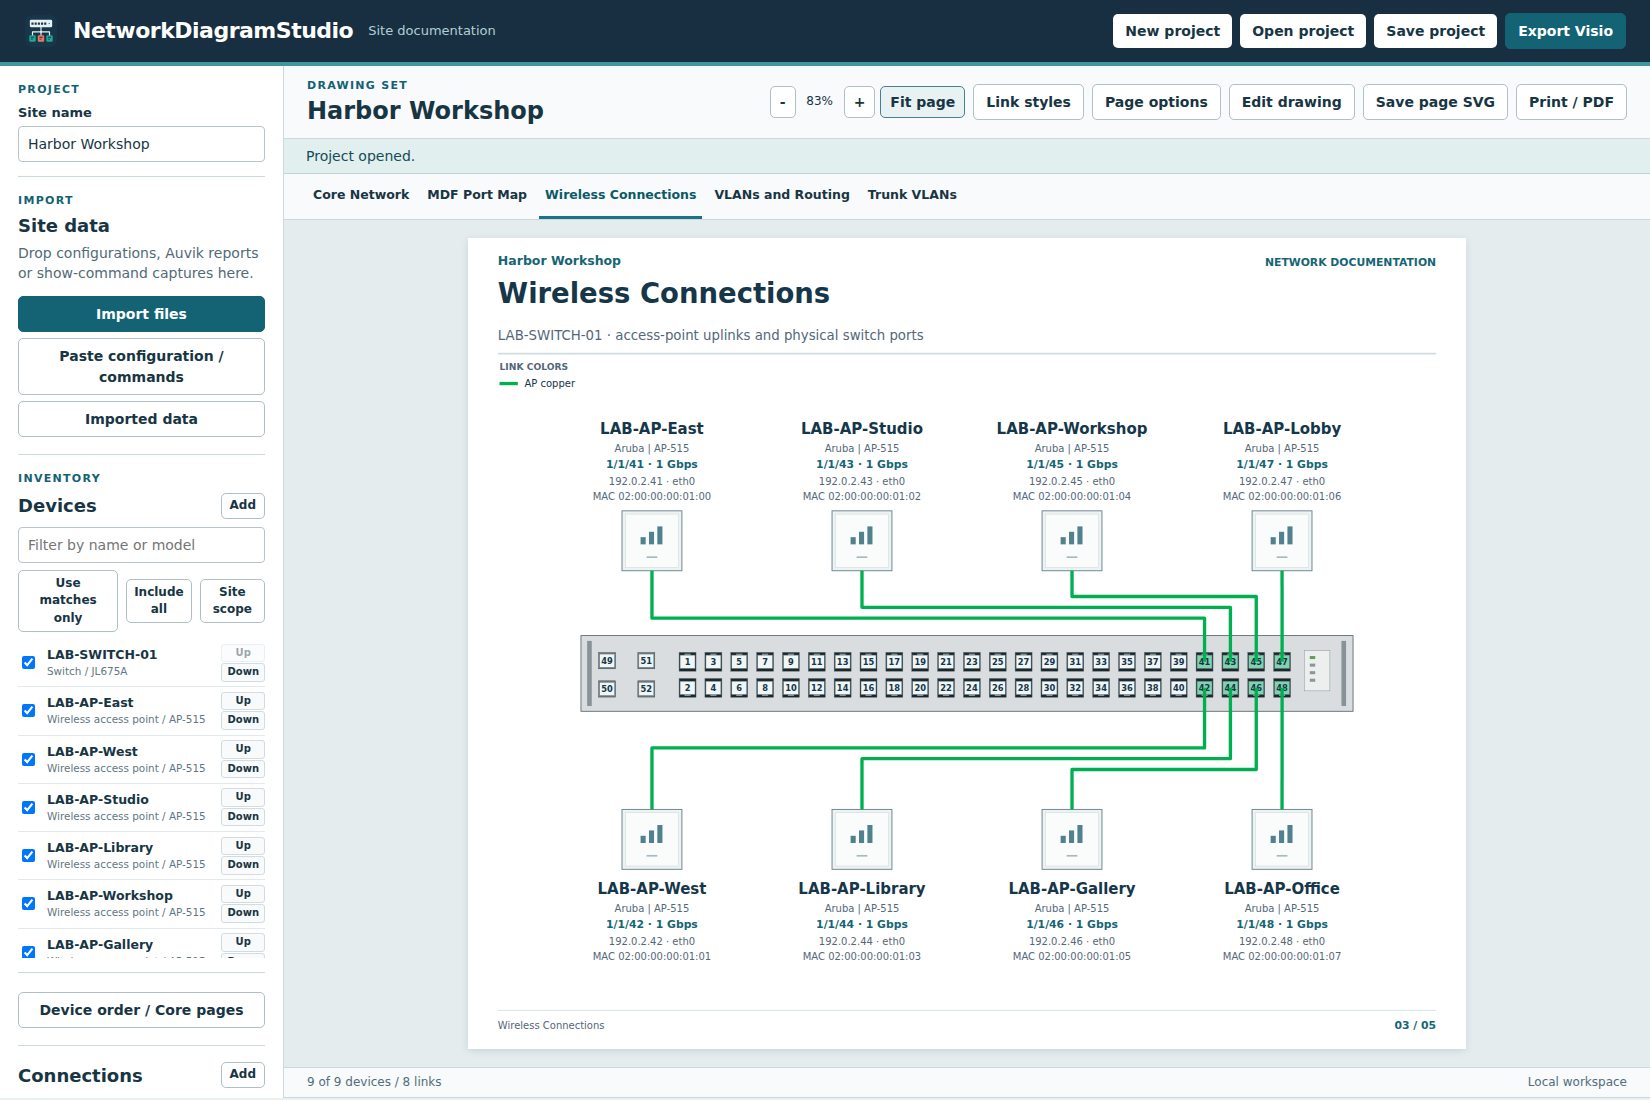
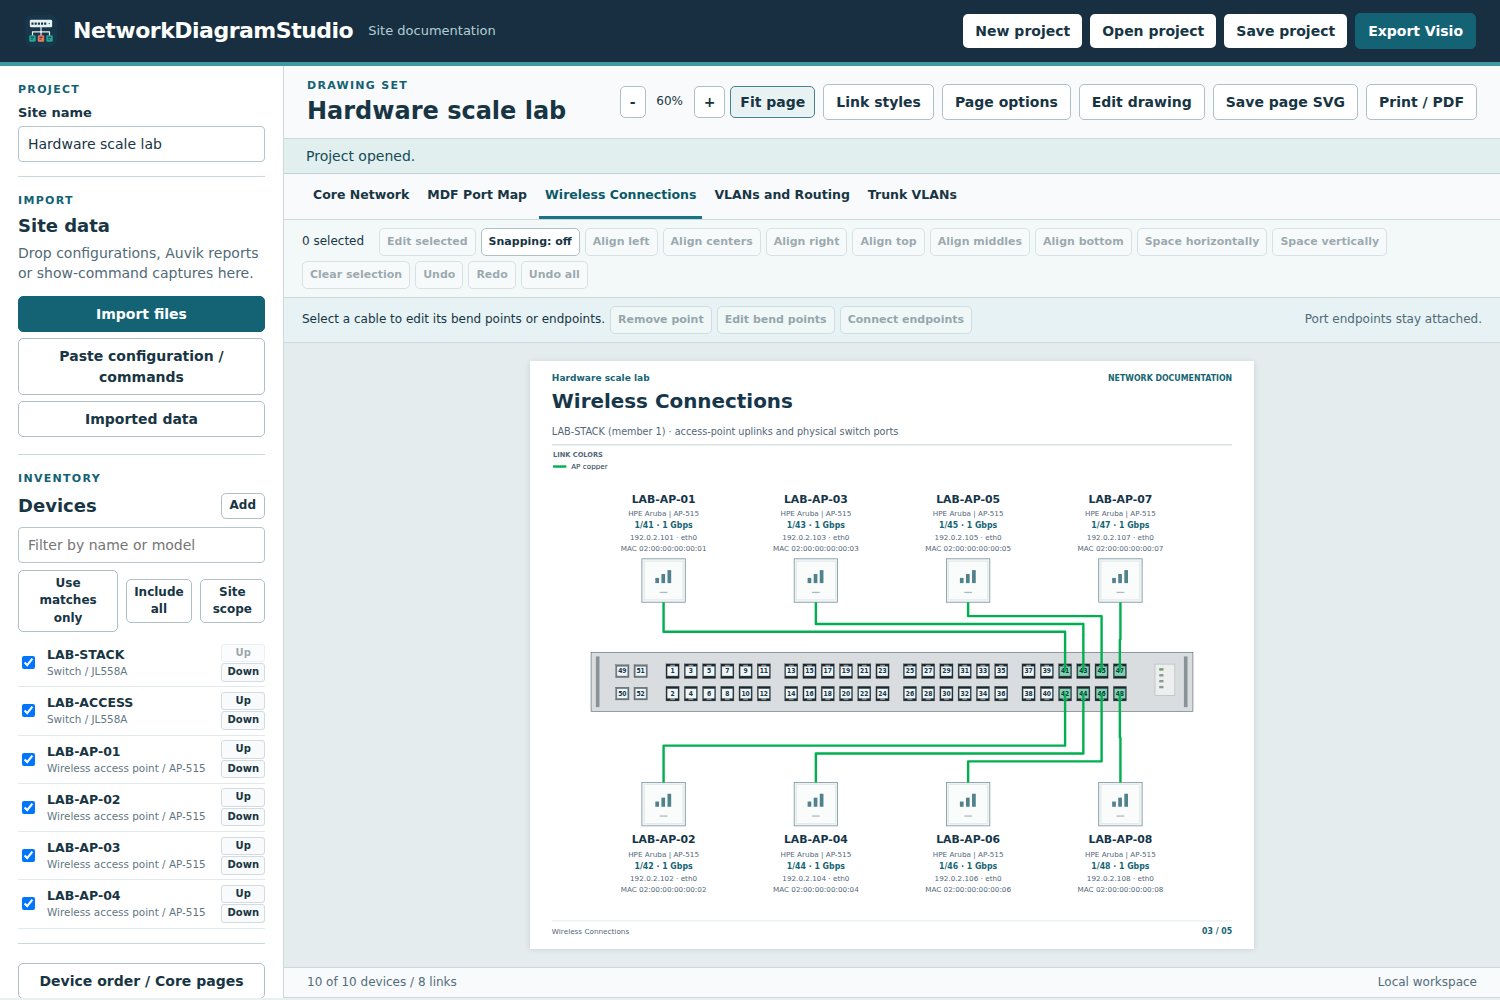
Preserve common hardware scale and paginate measured port maps (preview.21)

diff --git a/README.md b/README.md
@@ -19,7 +19,7 @@ Network engineers can use the Windows application or the offline browser edition
 - Zoom, pan and Fit page. In Edit drawing, box-select or Shift/Ctrl-click items, move them with the mouse or arrow keys, align edges or centers, and distribute spacing. Configure grid snapping and alignment guides. Double-click text to type directly on the diagram; double-click other elements for properties. Ctrl+Z, Ctrl+Shift+Z and Undo all apply to project changes. Alt-drag selects native panel details.
 - Select cable type and link speed in line properties, the connection editor or a legend swatch. Legend choices update associated connection records across the drawing. Choose Copper, generic/MMF/SMF fiber, SR/LR/ER/ZR, DAC variants, AOC/AEC, coaxial or serial; use speed presets or enter custom values. Captions and active legends follow the selected type.
 - Edit cable bends directly, reconnect either end to a selected device/port, and customize line color/opacity or text color with a visual selector, HEX field and standard swatches. Link styles shares colors and titles/descriptions between cables and their legend entries. Legends include only the styles used on each sheet. Automatic cables and their color keys use a consistent standard thickness; exported Visio line widths are explicit and editable.
-- Zoom into port mapping, box-select sockets, move a group with the mouse or arrow keys, and align or distribute the selection. Port maps use consistent port-number boxes and a shared assignment matrix with one port column per switch. Expanded tables, individual rows and optional empty-record filtering remain available.
+- Zoom into port mapping, box-select sockets, move a group with the mouse or arrow keys, and align or distribute the selection. Port maps keep a shared hardware scale, consistent port-number boxes and an assignment matrix with one port column per switch. Measured hardware and details share a sheet when they fit; larger stacks continue by member range. Expanded tables, individual rows and optional empty-record filtering remain available.
 - Show manufacturer/model and available MAC addresses on wireless AP captions and other device diagrams. Edit device and interface addresses through readable form fields; captions wrap in full and remain editable.
 - Save and reopen projects, export editable Visio drawings, save the current page as SVG, or print the drawing set to PDF.
 - Keep complete diagram captions with measured wrapping in both SVG and Visio. Port modules use editable gray optic faces with dark sockets and dark DAC ends with a horizontal insert, matching the Configuration Inspector style. Framed module keys expand or continue onto a module sheet; duplicate wording such as Port port1 is avoided.
@@ -27,25 +27,21 @@ Network engineers can use the Windows application or the offline browser edition
 
 ## Screenshots
 
+**Paper sizes and orientation**
+
 ![Paper size and orientation controls](docs/images/page-options.png)
+
+**Update review and release notes**
 
 ![Update review panel with fictional release data](docs/images/update-panel.png)
 
-**Switch port map**
+**Stack and switch port maps at a common scale**
 
-<p align="center"><img src="docs/images/port-map.png" width="900" alt="Port map for the fictional sample switch"></p>
+<p align="center"><img src="docs/images/port-map.png" width="900" alt="Fictional two-member stack and standalone switch with equal faceplate widths and a shared assignment table"></p>
 
 **Wireless model and MAC details**
 
 <p align="center"><img src="docs/images/wireless-models.png" width="900" alt="Eight fictional access points with model, MAC, interface and link details on one sheet"></p>
-
-**Editable ports and device page placement**
-
-<p align="center"><img src="docs/images/device-ports.png" width="900" alt="Human-readable port fields and core-page placement for a fictional device"></p>
-
-**VLANs and routing grouped by device**
-
-<p align="center"><img src="docs/images/logical-sections.png" width="900" alt="Three fictional switches with separate VLAN and route sections sharing one page"></p>
 
 ## Download
 
@@ -96,6 +92,8 @@ Enable **Edit drawing**, then drag an item to move it. Shift-click adds or remov
 In **Hardware**, choose **Map ports**. Drag a rectangle over sockets to select them, or select ports in the list. Shift adds ports and Ctrl toggles them. Drag a selected marker to move the group. Use **Align row**, **Align column** or equal spacing relative to the current port. Select one row or column when distributing sockets. Zoom with the wheel or the zoom buttons, choose **Fit device**, and hold Space or the middle mouse button to pan. Arrow keys move the selected ports one screen pixel, Shift moves ten and Ctrl moves one tenth. **Undo port change** or Ctrl+Z restores the previous mapping. Use **Place port** to add a socket at a clicked position. Supported Visio imports populate existing connection points automatically. Unnamed points receive neutral Connection labels; map or rename these to actual interfaces when their identities are known. Unsupported or missing cached point coordinates produce an import error instead of silently dropping the points.
 
 Port-map sheets follow a shared layout: nearby device names and model/state summaries, wide faceplates with consistent port-number boxes, a role/state key and an assignment matrix. The default compact grouped matrix compares switches side by side and retains their ports and connection details. Select **Port map options** to choose expanded tables, one row per interface, and whether to repeat faceplates on continued pages. First-page-only faceplates reduce the page count. Port lists use numeric member/slot/port order and wrap long details. Choose all records, hide records without assignment details, or show only records with a peer/description. The table filter leaves the physical faceplate intact.
+
+Port-map hardware uses one common width across its sheets, preserving each chassis and stack member's proportions. The planner measures complete panels and tries bounded shared scale adjustments to reduce page count. It favors the larger scale when both arrangements use the same number of pages. Oversized native stacks continue by member range with their local port details, and long tables can continue without repeating the artwork. Wireless sheets use the same principle and connect APs to their actual member. Change the **Port maps** or **Wireless** paper override in **Page options** to provide more space. Existing explicit size/position edits remain authoritative.
 
 Double-click text to edit it directly on the diagram. Enter saves and Escape cancels. A rejected edit stays visible with an explanation so it can be corrected or cancelled. Double-click other elements to open their properties. In **Edit drawing**, drag a rectangle around items; Shift adds items and Ctrl toggles them. Drag the selected group or nudge it with arrow keys. Shift multiplies the configured step by ten; Ctrl divides it by ten.
 
@@ -160,4 +158,4 @@ Open **dist/NetworkDiagramStudio.html** after the build. To publish the Windows 
 python scripts/package-release.py
 ```
 
-[Contributor guide](AGENTS.md) · [Development handoff](DEVELOPMENT_HANDOFF.md) · [Release notes](docs/releases/0.1.0-preview.20.md) · [Third-party notices](docs/THIRD_PARTY_NOTICES.md)
+[Contributor guide](AGENTS.md) · [Development handoff](DEVELOPMENT_HANDOFF.md) · [Release notes](docs/releases/0.1.0-preview.21.md) · [Third-party notices](docs/THIRD_PARTY_NOTICES.md)

diff --git a/DEVELOPMENT_HANDOFF.md b/DEVELOPMENT_HANDOFF.md
@@ -1,5 +1,15 @@
 # Development handoff
 
+## Preview.21 shared hardware scale and measured port-map pages
+
+Prepares 0.1.0-preview.21 / file version 0.1.0.21 from published preview.20 at 6bce02b63e1afb9c684984a12cd4d6b6d9f61a05. Preview.20 passed PR #15 Windows run 42400472883 and merged-main publication run 42401174729. Its public feed, actual asset hashes, PE version/icon and offline modules were verified, and both existing downloads were refreshed. Standing build/release authorization continues. Require green exact-head Windows checks, merge, merged-main publication and public feed/asset verification before announcing this release.
+
+Port maps and wireless still fitted hardware into fixed-height boxes after core pages had adopted a shared width. equipment-layout.mjs measures complete artwork at a common width and produces member-range views for native stacks. Port maps try three bounded shared scales, select the fewest pages and prefer larger hardware on ties. Measured captions, bodies and keys precede table packing. Oversized keys and detail records continue; grouped, expanded, individual-row and repeated-panel options follow the same rules. Original inventory identity is retained, while continuation edit scopes and Visio masters identify their member range. Native physical ports plus actual panel anchors assign wireless links to members, including LLDP-only interfaces. Generic compact core symbols now follow the same paper-dependent scale as the stack.
+
+Explicit saved geometry remains authoritative. Single imported-image stacks cannot be divided into members. Table fonts keep existing readable limits; port-number overlays below eight scene units remain omitted with complete table records retained. The private reported chassis/five-member/eight-member example now uses a common 720-unit port-map width with six port-map sheets and all 397 supplied physical port records retained. Customer fixtures and captures remain outside git. Public screenshots use fictional equipment only.
+
+Local coverage: 180 Node tests, seven Python damaged-package tests, synthetic VSDX/VSSX packages, actual browser editing, undo/redo, save/reopen and a five-page downloaded VSDX. Mixed-size print PDF page boxes match requested paper within one point. Regression tests cover chassis/stack aspect ratios, shared widths through all port-table modes, reorder, Letter/A3 paper, member-local wireless endpoints, LLDP-only ports, complete records, bounded text and isolated saved edits. README screenshots were refreshed and inspected. Hosted Windows checks remain required on the final head. Direct Microsoft Visio rendering and physical custom printer forms remain unverified.
+
 ## Preview.20 paper-aware layout, stack continuation and update review
 
 Prepares 0.1.0-preview.20 / file version 0.1.0.20 from published preview.19 at 31671881d45c0b0f035023b313569cbbcc54c235. Standing authorization covers build and release. Require green exact-head hosted Windows checks, merge, merged-main publication, public feed/asset verification and refreshing both existing downloads before announcing publication.

diff --git a/AGENTS.md b/AGENTS.md
@@ -102,3 +102,5 @@ Stencil discovery searches selected local files only. Button labels and empty-re
 Page geometry is physical 96-dpi scene space. Keep a drawing default and per-family paper overrides through cleanLayout/history/save. Use measured page dimensions in every planner, SVG viewBox, footer, print CSS and native Visio sheet. Do not stretch the final SVG or silently shrink type to fit a new aspect ratio. Tables must rewrap before pagination. Hardware width must remain common across sidebar/spacing retries for the same paper. Stack spacing may tighten without changing member aspect ratios; oversized native stacks may continue by member while retaining inventory identity, local port membership and correct remote page references. Distinct member subsets/gap geometry need distinct native Visio masters. Never slice arbitrary imported artwork as if its members were known. Test all paper orientations, actual mixed-size PDF page boxes, save/reopen, undo/redo and large stack links.
 
 The updater notice and review panel live in the editor; the native strip stays hidden and reclaims its space. Native bridge commands retain guards for check, download, busy state and installation consent. Render remote release notes as text, retain focus during progress updates, and keep a separate verifying state before install readiness. Check behavior and rollback policy must not change for presentation work.
+
+Port-map and wireless planners must measure full hardware at a common width for their entire page family. Never fit separate chassis/stacks into fixed-height boxes. Try bounded shared scale alternatives and prefer larger hardware when page counts tie. Native stack member continuations retain original device identity, member-local ports and inherited LAG settings; use distinct member edit scopes and masters. Include actual panel anchors when assigning neighbor-only wireless links to members. Imported single-image hardware is indivisible. Explicit drawing edits remain authoritative. Core compact symbols must follow the common paper-dependent scale too.

diff --git a/docs/releases/0.1.0-preview.21.md b/docs/releases/0.1.0-preview.21.md
@@ -1,0 +1,13 @@
+# NetworkDiagramStudio 0.1.0-preview.21
+
+- Keep rack faceplates at one shared scale across each port-map or wireless drawing family. A tall chassis or multi-member stack no longer shrinks independently to fit a fixed-height space.
+- Measure the complete hardware before grouping pages. Try bounded reductions of the shared port-map scale, choose the arrangement with fewer sheets, and retain the larger scale when page counts tie. Paper size still controls the available space.
+- Continue oversized native stacks by labeled member ranges, keeping their physical ports and assignment details with the corresponding hardware. Long tables and keys continue as needed without dropping records.
+- Preserve the same scaling rules in compact grouped tables, expanded tables, individual-interface rows and optional repeated faceplates.
+- Draw wireless connections against the correct full-width stack member, including interfaces known from neighbor links. Keep source device identities, port attachments, model/MAC captions and saved drawing edits.
+- Scale compact endpoint symbols with the shared core stack width when paper size changes. Retain explicit manual sizing and positions.
+- Refresh the port-map and wireless screenshots and usage details.
+
+Existing projects need no conversion. Open the project to regenerate its pages. Imported single-image hardware remains indivisible, and explicit saved geometry remains authoritative. Larger paper may be needed for unusually tall artwork. Generated text keeps its readable font limits; physical printer support still determines custom paper availability.
+
+Validation includes 180 Node tests, seven Python package tests, independent Visio package checks, actual browser editing/undo/redo/save/reopen and mixed-size PDF measurements. Hosted Windows UI, export, print and updater lifecycle checks run on the final release commit. Direct rendering in Microsoft Visio remains unverified in this environment.
